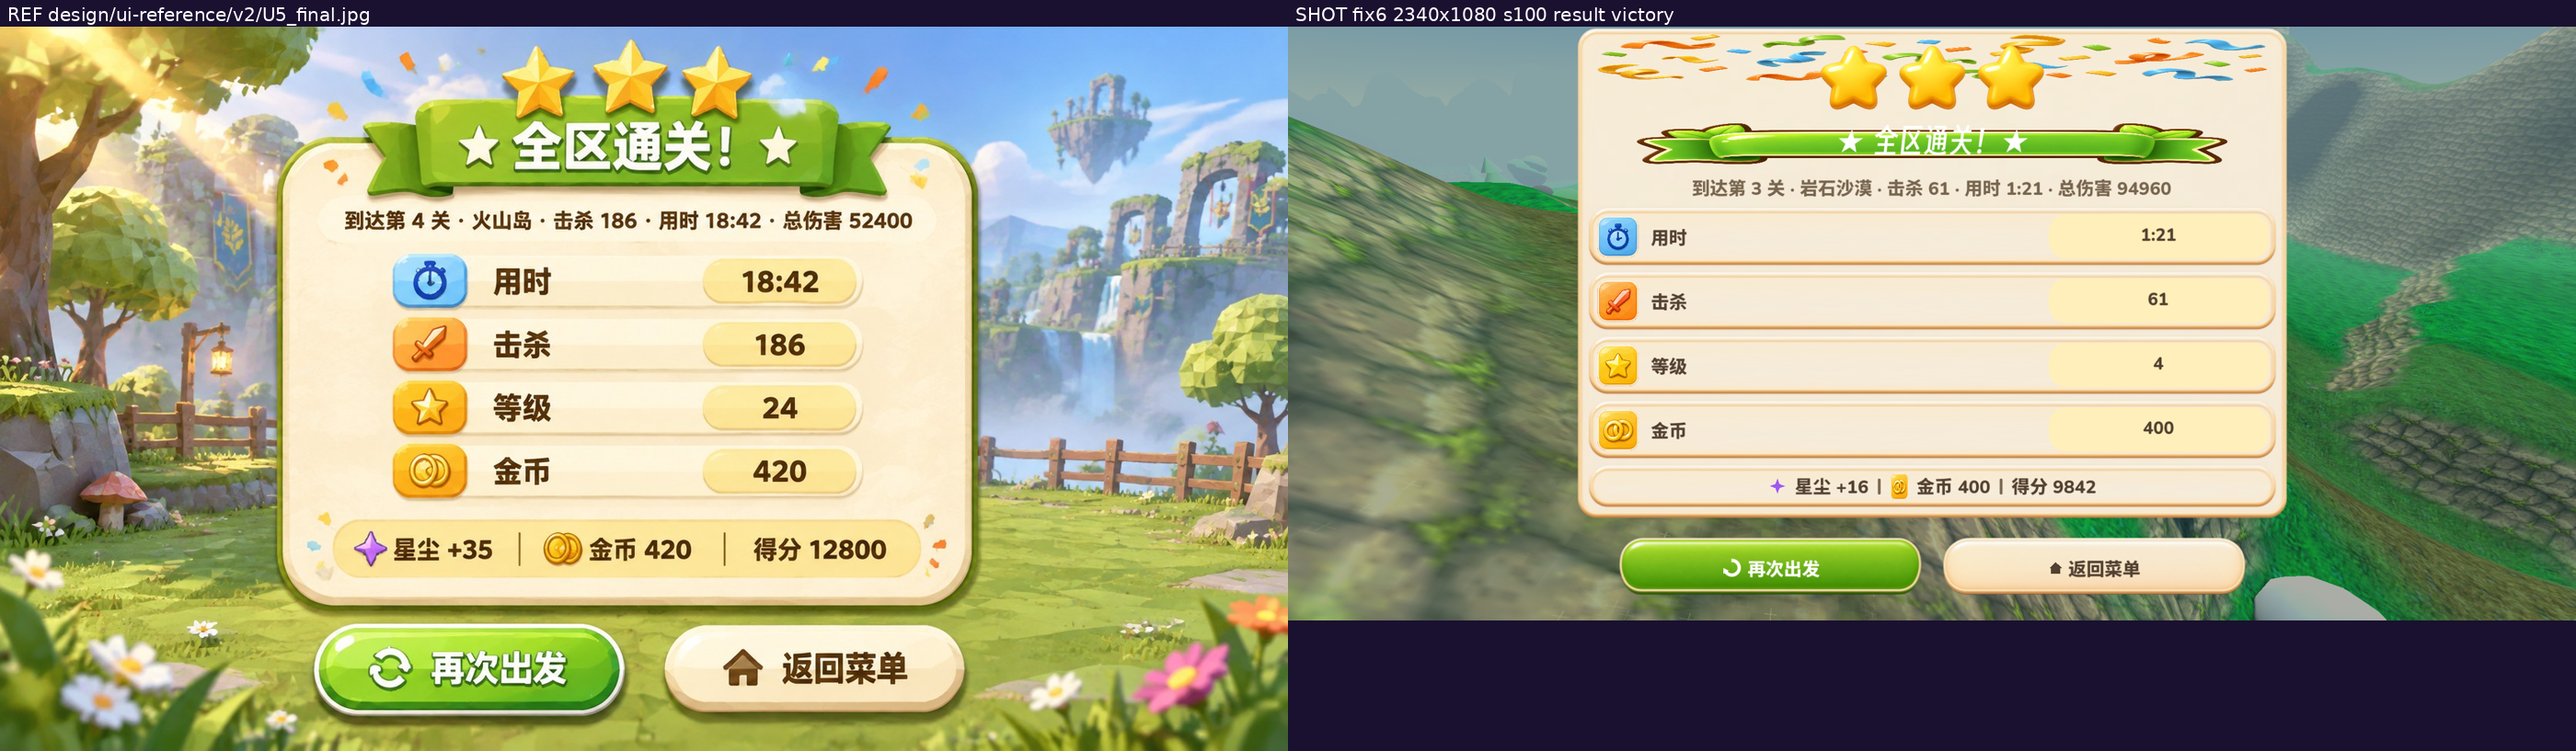
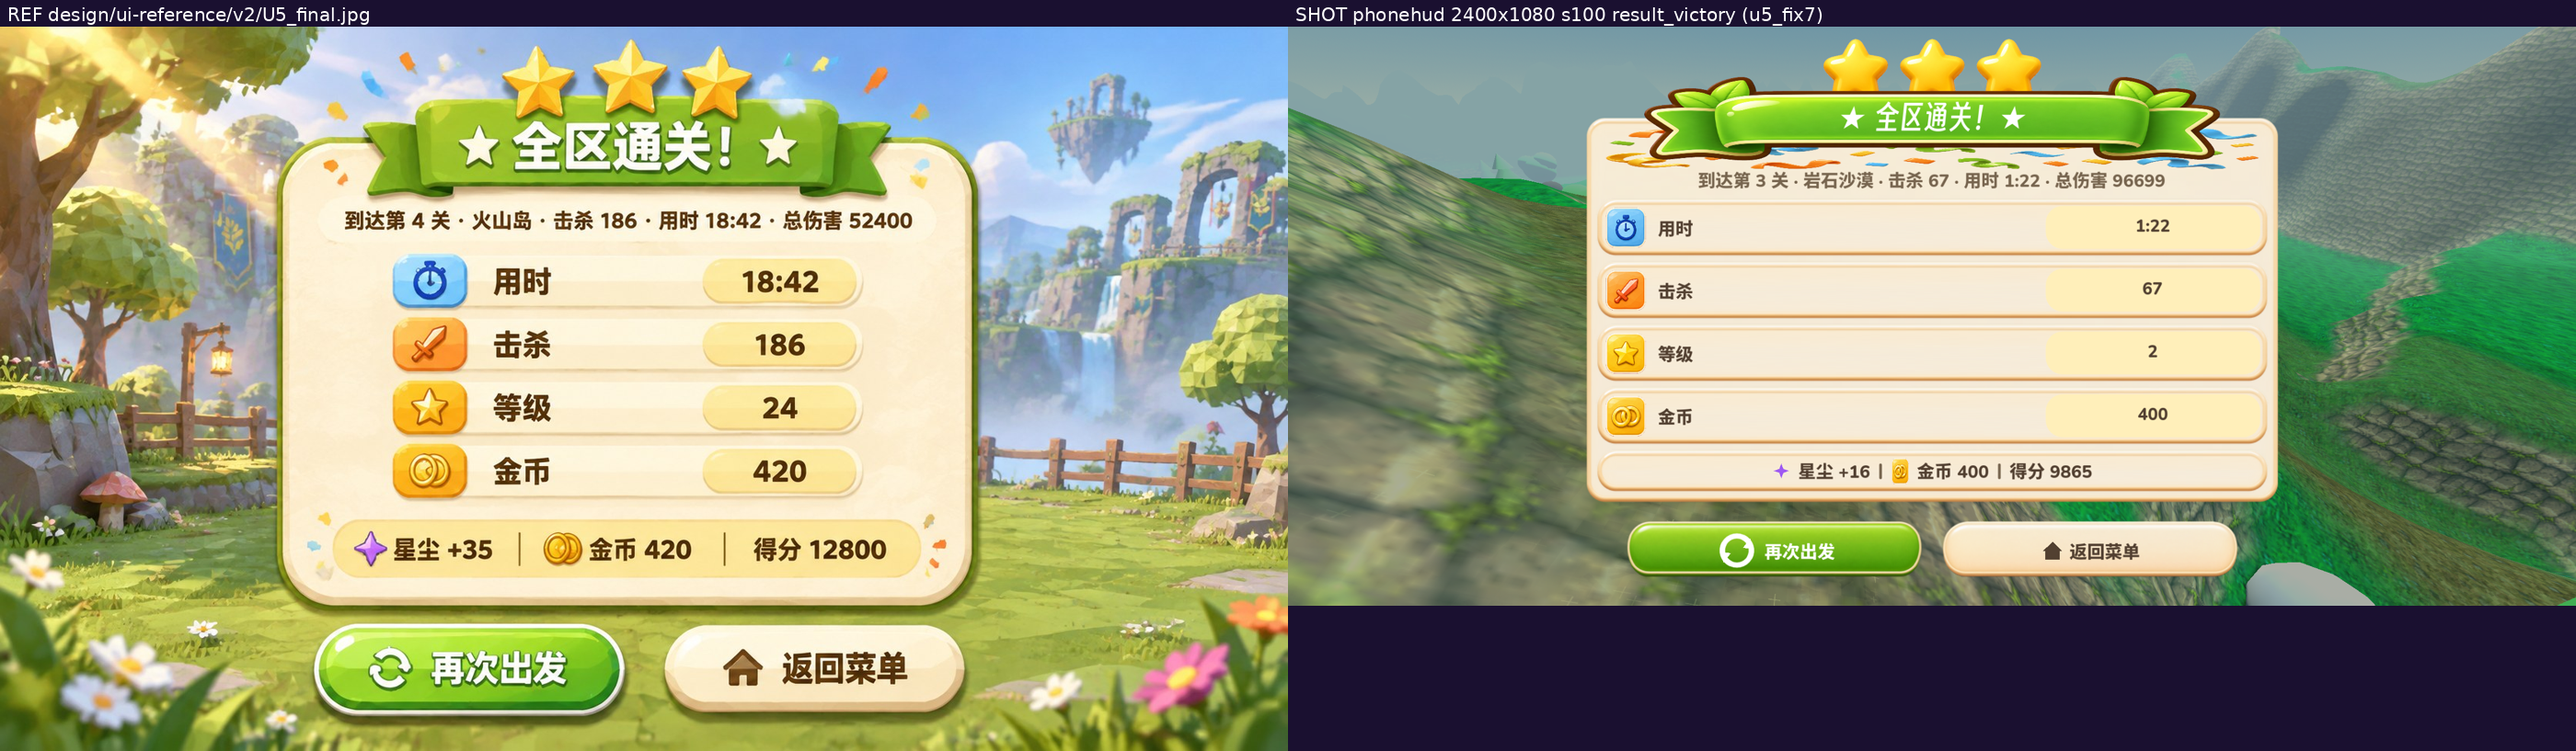
Ledger: U5 fix7 verdict (not closed) + fix8 batch watch; fix7 compares

Changed region(s): [[0.4971, 0.0, 1.0, 0.8262], [0.9943, 0.4284, 1.0, 0.5202], [0.9632, 0.0306, 0.9943, 0.0918]]

diff --git a/design/ui-alignment-progress.md b/design/ui-alignment-progress.md
@@ -808,3 +808,28 @@ U1 已重开，U3 不得开工（见「关闭门」）。第 9 轮：2340 复验
 - 图标第二单收口已在前轮完成（记录 66ad775、合并 SHA ccf6b8a、fd2af03 已为 align-fix13 祖先），本轮不重复。
 - 断点不变：下一轮先读 Test/out/u5_fix7.done（等 ALLDONE、两档绿 FAIL=0），按上一节断点取双档 mobile_p5_result_victory_*_s100_i0.png 快照、行列扫描复核（图标双弧双箭头可辨约 86 屏 px／星压缎带／缎带压面板顶沿／星顶在屏内／面板不溢出／钮底位置），重建 compare/U5.png 与 compare/U5_2400.png（Test/make_compare_u5.py）、逐项亲检再议 U5 签核；行距／面板高／钮底 ＋19px 残差一并裁定。Notion 对齐单未动（U5 未关闭）。
 - 本轮提交：本节台账。
+
+## U5 fix7 亲检裁定：未关闭，fix8 处方（2026-11-15 05:1x–06:0x 轮，worker）
+
+- 验证批 `Test/u5_fix7_run.sh`（HEAD 7feb6f5）已 ALLDONE 04:41:07：2400 s100 **1564/0**、2340 s100 **1549/0**，双腿 rc=0。防撞：起跑时无 sprite-bonk Godot 在跑（pgrep 锚定 argv0 为空），无双开。图标第二单收口已在前轮完成，不重复。
+- fix7 三项逐项复核（原始 PNG 行列扫描＋放大裁切＋双档 compare 亲看；REF `design/ui-reference/v2/U5_final.jpg` 1672×941；实拍 md5 已与 NUC 侧核对一致）：
+  - ① 刷新图标 ✓：双弧双箭头循环形（放大裁切可辨两颗三角箭头），白像素 bbox 高 76 屏 px／钮高 88（86%），与参考约 85% 一致；home 图标沿用 fix7 已验 32 px（本轮暗像素扫描取区偏了、只得 2 px，不作残差，fix7 量测仍成立）。
+  - ② 星压缎带 ✓：星顶 23 屏 px（参考 ~21）、星高 120（参考 ~116）、星簇 x 38.0–58.4%W（参考 38.0–59.6%W）；星底压住缎带顶沿（重叠约 11 屏 px）。
+  - ③ 缎带压面板顶沿 ✓：缎带中心约在面板顶沿上（实拍中心 ~171 屏 px、面板顶 ~173；参考中心约在顶沿上约 5 px）；面板顶 ~173（参考 ~174）、面板底 ~880（参考 ~854 归一化）。
+  - ④ 按钮 ✓：已出面板落下方场景上，绿钮 637..1175、奶油钮 1222..1766，底 1014–1017（参考 ~1018 归一化）；孤零行已去、面板右侧无滚动条；值 pill 淡黄、标题白字、三金星＋彩带、摘要行、四行单栏、汇总 pill、HUD 已藏均与 fix5 验收态一致。
+- **未关闭：三处可见残差（原始图行列扫描＋双档 compare 同现，均以视口分数核对——量测纪律补充见下）**：
+  - ① 缎带带体过薄：实拍主绿带高约 80 屏 px（7.4%H，中心列 131..210），参考约 108–132 归一化 px（~11%H）；标题字几乎贴住带体上下缘，参考带内上下各有绿边。根因：缎带纹理不透明带只占 rect 高约一半（实证 150 rect → 80 屏 px，0.53 屏 px／rect px）。
+  - ② 行距过疏＋值 pill 过胀：实拍行 pitch 117 屏 px（10.8%H），参考 82 raw px（8.75%H）；值 pill 高 81–82 屏 px、占行高 84%，参考 pill 约 33 raw px、占行高 40%；汇总 pill 顶在 74.1%H（参考 65.3%H）、面板底下空奶油带仅 ~22 屏 px（参考 ~104 raw px）。根因：行板 margin 8＋core separation 10（行 72＋10＝82 pitch），且 HBox 纵向拉伸使 chip 填满行高。
+  - ③ 钮偏矮：实拍钮高 87 屏 px（8.1%H），参考 88 raw px（9.35%H）；钮宽占幅比已对（22.4%W vs 23.0%W）。
+- 量测纪律补充（本轮教训）：REF 是 1280×720 渲染（均匀 ×1.307），手机档是 1600×720 逻辑视口（×1.5，模态 sm 0.952 → 设计 px→屏 px ×1.428）；两图宽高比不同，**横向尺寸一律按视口分数比，纵向按 %H 比**，禁止把 REF 按高度因子归一化后直接比横向 px（本轮初版曾据此误判钮宽 ＋22%，实为分数一致）。
+- fix8 处方（只动表现层，不动玩法数值；U5 仍不许跳屏）：
+  - ① 缎带 rect 150→225（中心仍压面板顶沿，crest-local −14；position −89→−126，draw extent 同步 225）：目标带体 ~120 屏 px（REF ~11%H），星重叠增至约 30 屏 px（REF 区间 ~16–32）。
+  - ② 行板与汇总 pill 的 P5 margin 8→3（行 72→62）、core separation 10→1（pitch 82→~63 设计 px）；值 pill 字号 22→18、定高 26 设计 px、纵向 SHRINK_CENTER（不再填满行高）。
+  - ③ 面板内底部加 69 设计 px spacer（P5 限定）：参考面板底下有大段空奶油；收紧行共省 ~77 设计 px 面板 min，spacer 把面板钉回 ~500 设计 px，面板顶／按钮位置不动。
+  - ④ 按钮定高 70 设计 px（P5 限定；REF ~67 vs 实拍 ~61）：钮顶落回参考线 ~917 屏 px，图标仍占钮高约 86%。
+- 实施 fix8（提交 d3d2349，scripts/world.gd＋Test/u5_fix8_*.sh；未动玩法数值、未动检查；桌面布局一律未动——钮高两行初版误放 `if _p5_on` 外，已在提交前移回 P5 分支内）：
+  - 解析门 Test/u5_fix8_parse.sh（world 单门）：rc=0、SCRIPT ERROR 0 条。日志 Test/out/u5_fix8_parse.log。
+  - 验证批 Test/u5_fix8_run.sh 已于 05:51:49 detached 启动（HEAD d3d2349，2400 s100 腿在跑，Godot PID 1540239），.done 路径 Test/out/u5_fix8.done，双腿 2400 s100 → 2340 s100，预计约 06:35 完成。
+  - 同步：本地提交 d3d2349 已 `sync_to_nuc`，parity 892 文件 0 diff；NUC HEAD 已核 d3d2349。
+- 断点：下一轮先读 Test/out/u5_fix8.done（两档绿、FAIL=0；checks 1549 与 1564 均接受，以 FAIL=0 为准），取 `mobile_p5_result_victory_*_s100_i0.png` 双档快照，行列扫描复核缎带（带体约 120 屏 px、顶约 110、底约 235、中心压面板顶沿）／行 pitch 约 96 屏 px／值 pill 约 37 屏 px 高且纵向居中／汇总 pill 上移、面板底下有空奶油带／面板顶约 173、面板底约 880／钮顶约 917、钮底约 1018–1025／星仍压缎带且未被带体埋住后重建 compare/U5.png 与 compare/U5_2400.png（Test/make_compare_u5.py）、逐项亲检再议 U5 签核。Notion 对齐单未动（U5 未关闭）。
+- 本轮提交（align-fix13，待推送，`git ls-remote` 核验）：d3d2349 fix8 代码＋脚本；本节台账＋fix7 双档 compare（`design/ui-reference/compare/U5.png`、`U5_2400.png`，由 fix7 实拍重建；与本机构建逐字节一致——构建输入即 NUC 快照，md5 已核对）。
